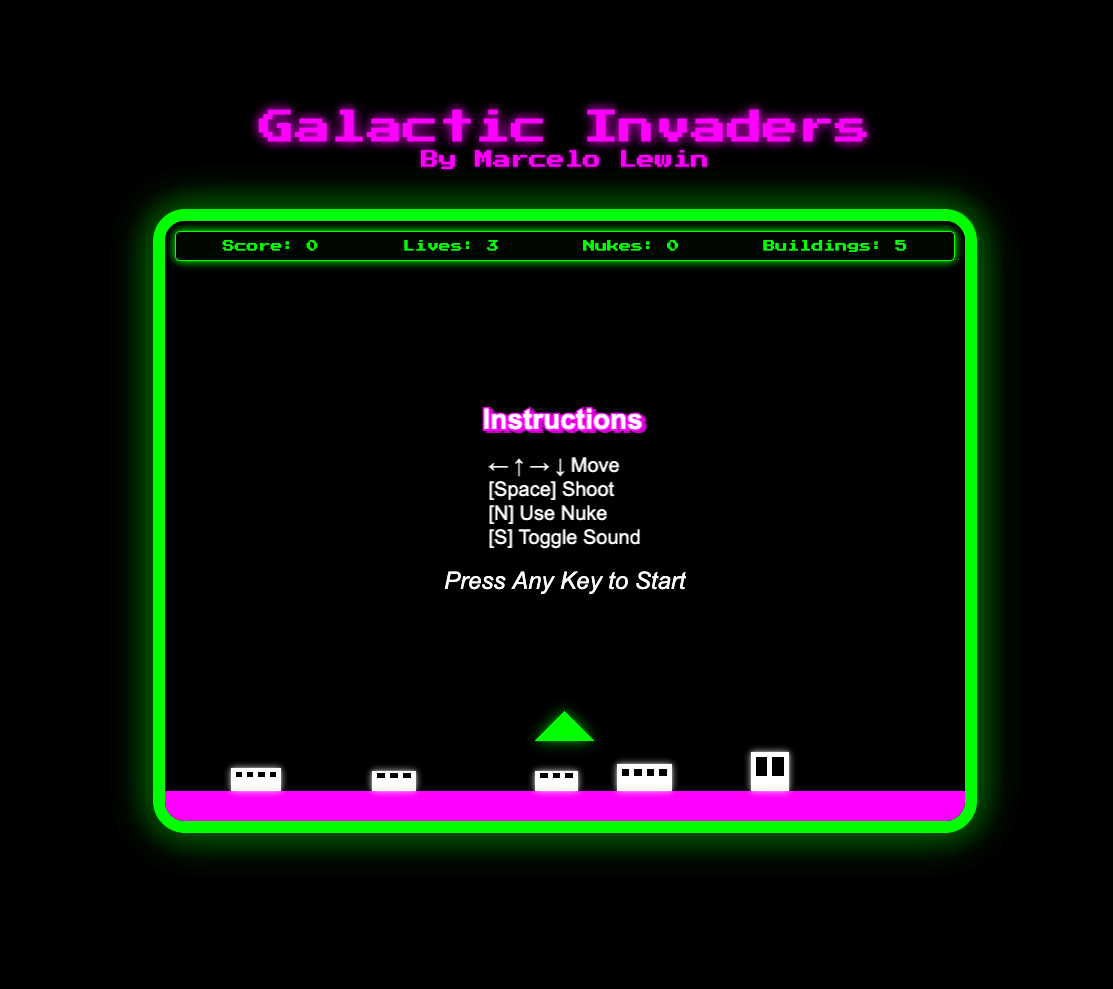
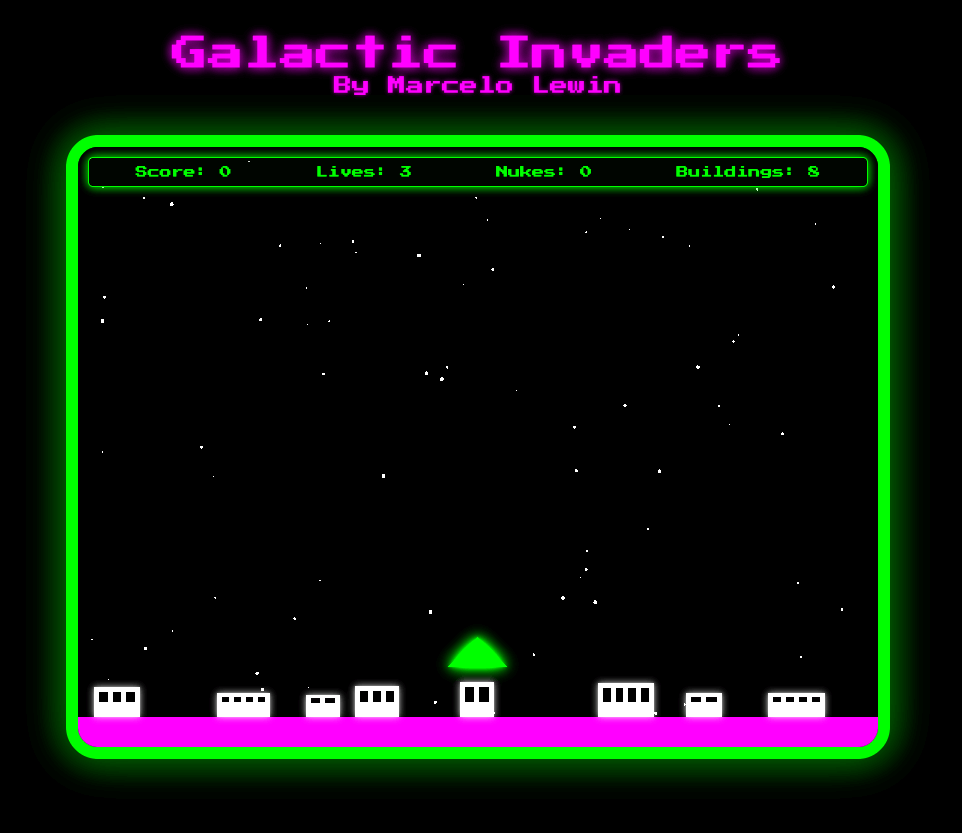
Changed keys to standard WASD

diff --git a/js/game.js b/js/game.js
@@ -116,7 +116,14 @@ const loseLifeSound = new Audio('./assets/lose_life.wav');
 // Event listeners for input (attached once globally)
 window.addEventListener('keydown', (e) => {
     keys[e.key] = true;
-    if (e.key === 's' || e.key === 'S') {
+    // Map WASD to arrow keys for movement
+    switch(e.key.toLowerCase()) {
+        case 'a': keys['ArrowLeft'] = true; break;
+        case 'd': keys['ArrowRight'] = true; break;
+        case 'w': keys['ArrowUp'] = true; break;
+        case 's': keys['ArrowDown'] = true; break;
+    }
+    if (e.key === 'm' || e.key === 'M') {
         soundOn = !soundOn;
     }
     // Only allow shooting if game started and not game over
@@ -125,7 +132,7 @@ window.addEventListener('keydown', (e) => {
         canShoot = false;
     }
     // Only allow nuke if game started and not game over
-    if (gameStarted && !gameOver && e.key.toLowerCase() === 'n' && nukes > 0) {
+    if (gameStarted && !gameOver && e.key.toLowerCase() === 'q' && nukes > 0) {
         useNuke();
     }
     // If game has not started yet, any key press will start it
@@ -137,6 +144,13 @@ window.addEventListener('keydown', (e) => {
 
 window.addEventListener('keyup', (e) => {
     keys[e.key] = false;
+    // Map WASD to arrow keys for movement
+    switch(e.key.toLowerCase()) {
+        case 'a': keys['ArrowLeft'] = false; break;
+        case 'd': keys['ArrowRight'] = false; break;
+        case 'w': keys['ArrowUp'] = false; break;
+        case 's': keys['ArrowDown'] = false; break;
+    }
     if (e.key === ' ') canShoot = true;
 });
 
@@ -317,7 +331,7 @@ function showTitleScreen() {
     titleScreen.addChild(header);
 
     const instStyle = new PIXI.TextStyle({ fill: '#fff', fontSize: 20, fontWeight: 'normal' });
-    const instText = '← ↑ → ↓ Move\n[Space] Shoot\n[N] Use Nuke\n[S] Toggle Sound';
+    const instText = '← ↑ → ↓ Move / WASD\n[Space] Shoot\n[Q] Use Nuke\n[M] Toggle Sound';
     const inst = new PIXI.Text(instText, instStyle);
     inst.anchor.set(0.5);
     inst.x = GAME_WIDTH / 2;

diff --git a/README.md b/README.md
@@ -12,10 +12,10 @@ Your mission is to protect your city, trying to stop waves of aliens from destro
 To play the game, you can either play it [live on the web](https://bymarcelolewin.github.io/Galactic-Invaders/) or clone this repo and run it locally using a web server (since it uses fetch() to load JSON data). If you’re running it locally, make sure to serve it with something like Live Server in VS Code or a simple HTTP server to avoid CORS issues.
 
 ## How to Play
-1. Use the arrow keys to move your spaceship
+1. Use ←, ↑, →, ↓ or [WASD] to move your spaceship
 2. Press \[Space] to shoot
-3. Press \[N] to activate the nuke (when available)
-4. Press \[S] to toggle sound on/off
+3. Press \[Q] to activate the nuke (when available)
+4. Press \[M] to toggle sound on/off
 5. Destroy aliens to earn points
 6. Avoid getting hit by aliens.
 7. Stop the aliens from destroying your city.
@@ -31,10 +31,10 @@ To play the game, you can either play it [live on the web](https://bymarcelolewi
 - Scrolling starfield background for immersive space atmosphere
 
 ## Controls
-- ←, ↑, →, ↓: Move
-- \[Space]: Shoot
-- \[N]: Activate nuke (when available)
-- \[S]: Toggle sound on/off
+- ←, ↑, →, ↓ or \[WASD] : Move
+- \[Space] : Shoot
+- \[Q] : Activate nuke (when available)
+- \[M] : Toggle sound on/off
 
 ## Why I Created It
 This game was created as an experiment in learning Vibe Coding techniques and exploring AI-assisted development tools. I have zero game dev experience, so I figured, if I can, then anyone else can.  I did.  Now you can too!
